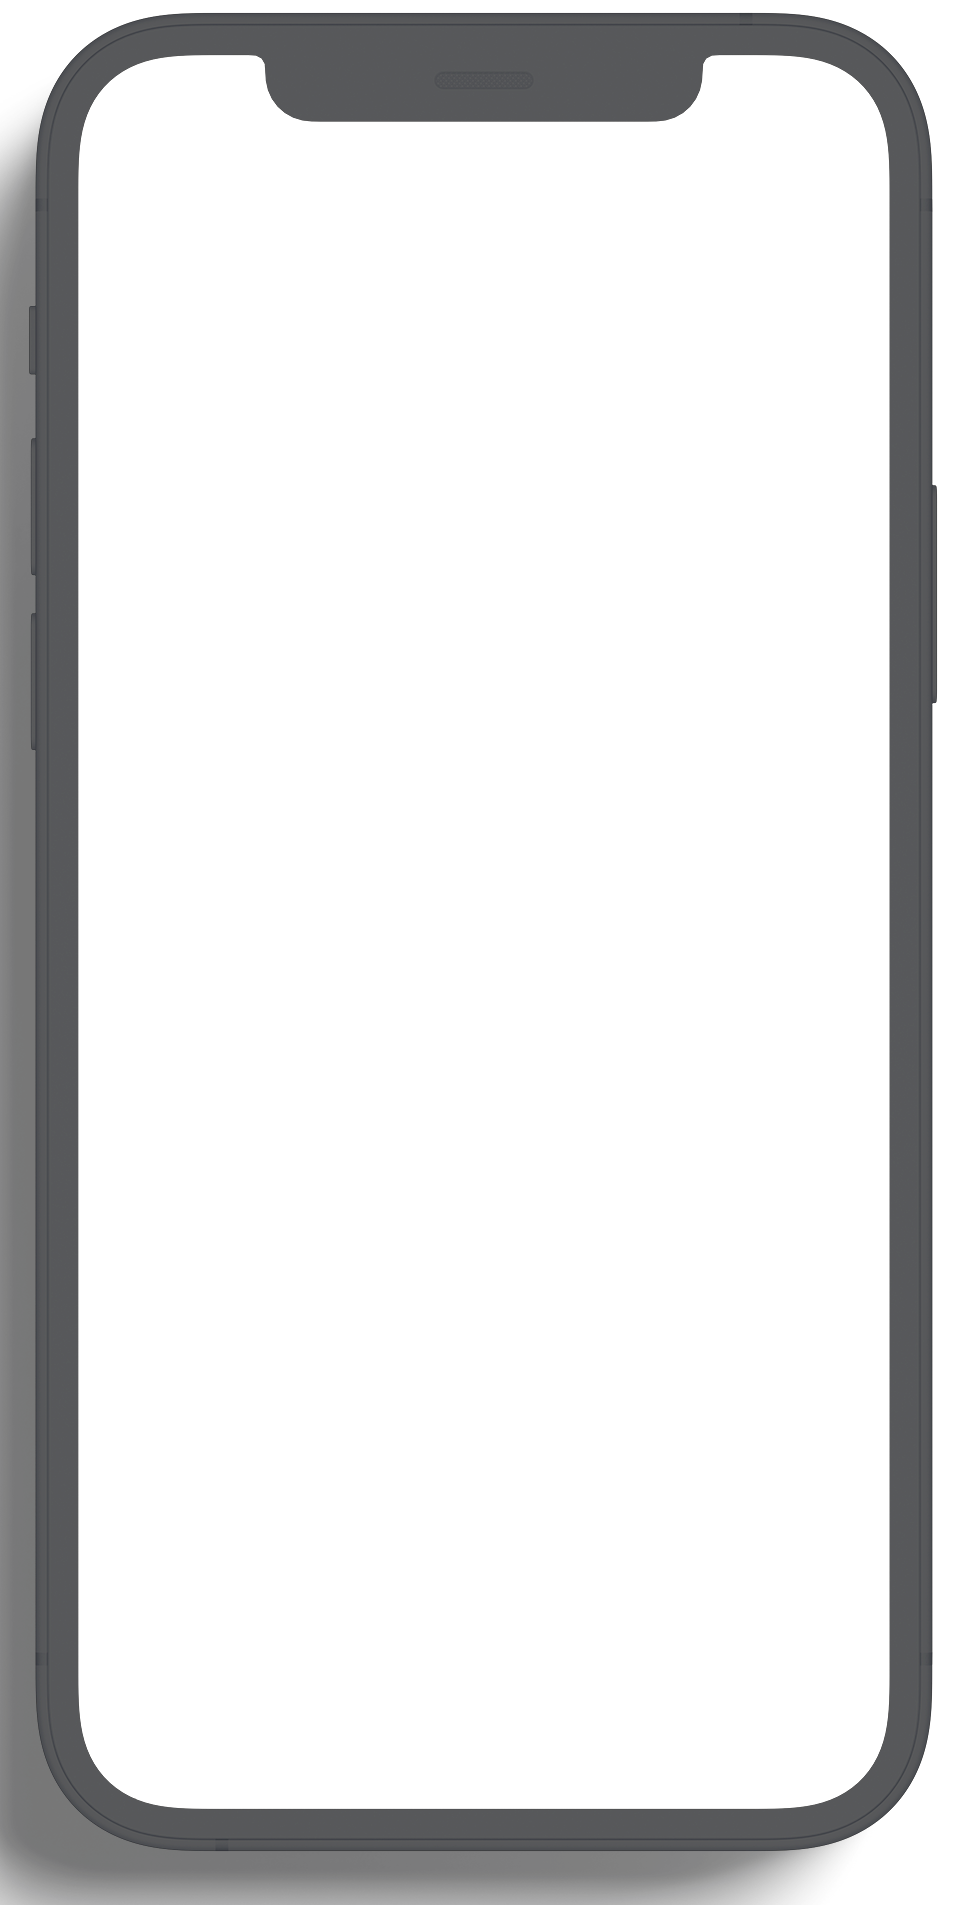
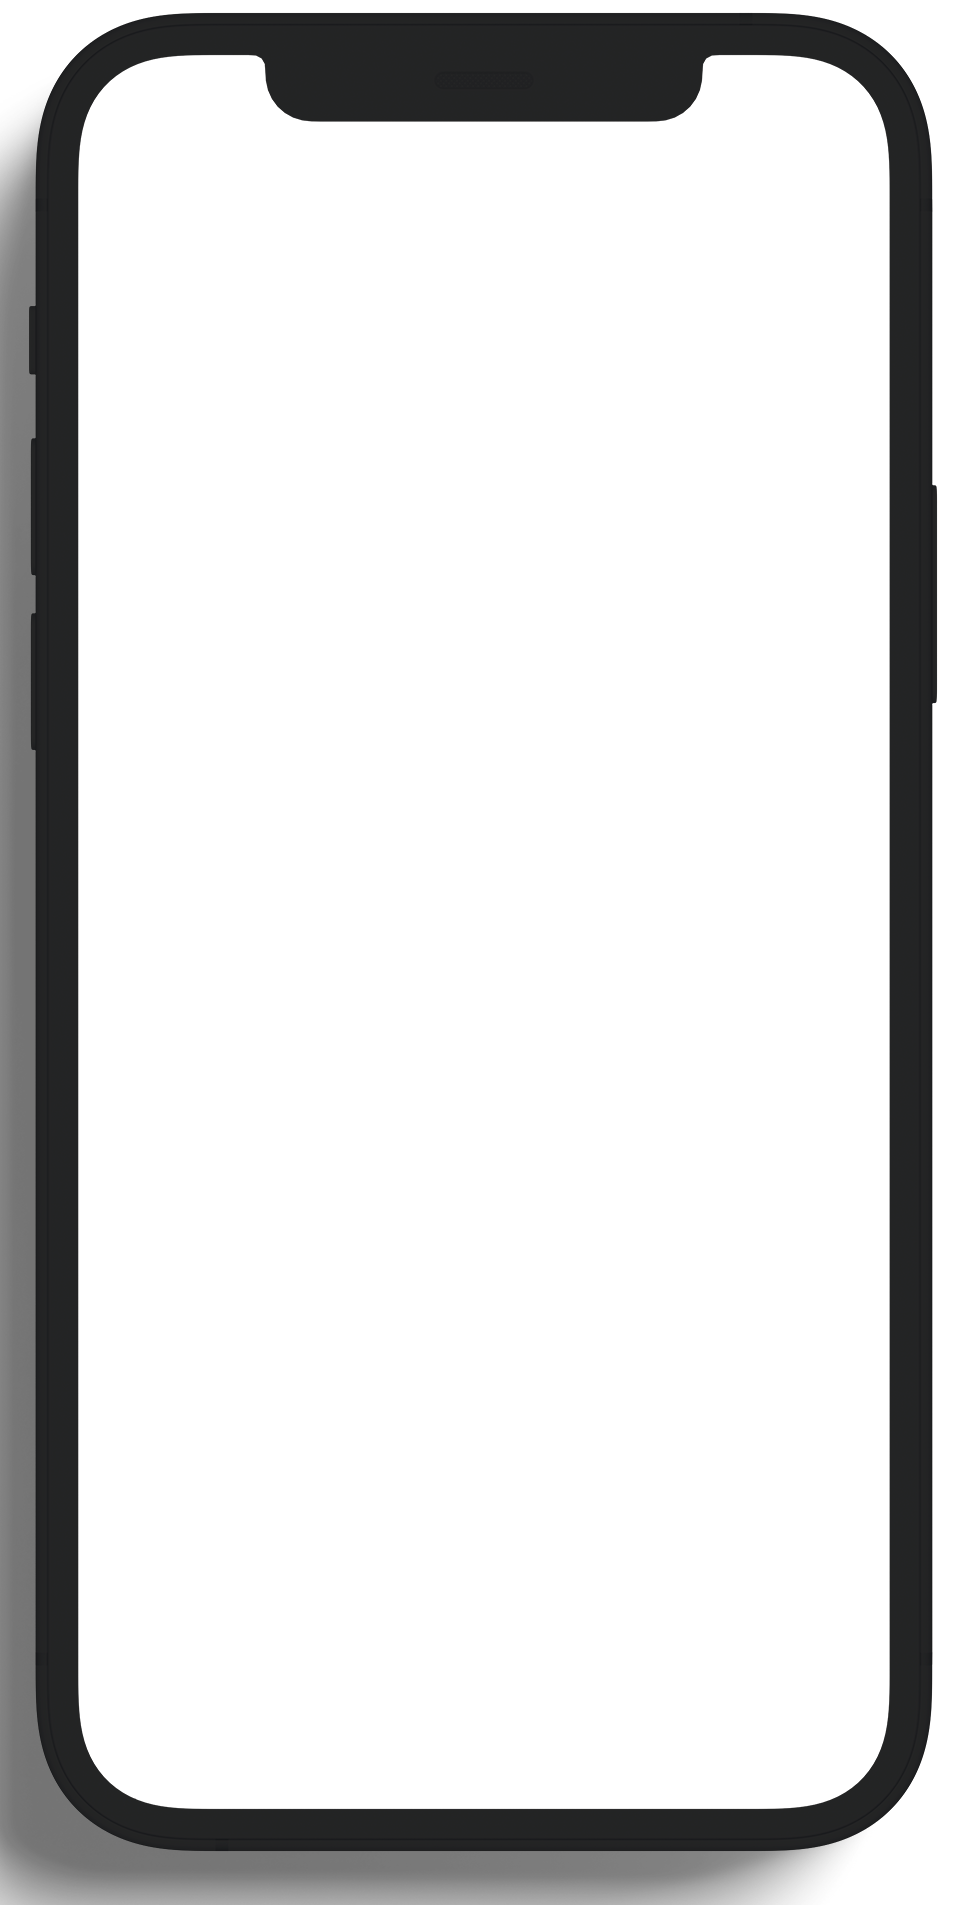
일단 수정

Changed region(s): [[0.0312, 0.0, 0.9979, 0.9911]]

diff --git a/pages/app.html b/pages/app.html
@@ -59,10 +59,10 @@
          <div class="inf2">
             <h2>일정관리에 시간을<br>들이지 마세요.</h2>
             <div class="phone2">
-                <img src="../images/phone_splash.png" width="400" height="750">
+                <img src="../images/phone_1.png" width="400" height="750">
             </div>
             <div class="phone3">
-
+                <img src="../images/android_phone.png" width="411" height="731">
             </div>
             <p>
                 Ai 맞춤 일정,원하는 사람들과의 매칭<br>그리고<br>맞춤동영상까지!
@@ -71,7 +71,7 @@
          <div class="write2">
             <h2>이 앱을 써야할 이유 (장점)</h2>
             <ul class="wrap_boxes1">
-                <li><img src="../images/artificial-intelligence.png" width="100" height="100"><h5>인공지능 기반 플랫폼</h5><p>인공지능이 사용자에 맞는 맞춤학습을 제공합니다.</p></li>
+                <li><img src="../images/plan.png" width="100" height="100"><h5>인공지능 기반 플랫폼</h5><p>인공지능이 사용자에 맞는 맞춤학습을 제공합니다.</p></li>
                 <li><img src="../images/app_shoulder.png" width="100" height="100"><h5>커뮤니티와의 협업</h5><p>커뮤니티와의 협업으로 학습을 더욱 풍부하게 만들어줍니다.</p></li>
                 <li><img src="../images/app_smartphone.png" width="100" height="100"><h5>편리한 모바일 엑세스</h5><p>언제 어디서나 스터디를 계획하고 진행할 수 있습니다</p></li>
         </div>

diff --git a/css/style.css b/css/style.css
@@ -234,7 +234,6 @@ header button:hover {
     width: 400px;
     height: 700px;
     position: absolute;
-    border: 10px solid gray;
     border-radius: 15px;
     right: 0px;
     top: 0px;
@@ -544,7 +543,7 @@ header button:hover {
     border-radius: 10px;
     background-color: white;
     position: relative;
-    font-size: 18px;
+    font-size: 20px;
 }
 .timeline li::before {
     content:""; position: absolute;
@@ -552,6 +551,10 @@ header button:hover {
     width: 20px; height: 20px; border-radius: 100%;
     background:#252525; border: 2px solid #ffffff;
     box-sizing: border-box
+}
+
+.timeline li h3 {
+    margin-bottom: 5px;
 }
 
 .history_about_wrap {
@@ -571,7 +574,7 @@ header button:hover {
 
 .vision {
     width: 100%;
-    height: 600px;
+    height: 800px;
     background-color: black;
     text-align: center;
 }
@@ -582,9 +585,10 @@ header button:hover {
     margin: 0px auto;
 }
 .vision h2 {
+
     color: white;
     font-size: 43px;
-    padding: 30px;
+    padding: 130px 60px 60px 60px;
 }
 
 .vision_box {
@@ -599,6 +603,7 @@ header button:hover {
     width: 350px;
     height: 400px;
     padding: 10px;
+    font-size: 1.3em;
 }
 
 .introduce_team {

diff --git a/pages/request.html b/pages/request.html
@@ -2,10 +2,8 @@
 <html lang="en">
 <head>
   <meta charset="UTF-8">
-  <meta name="viewport" content="width=device-width, initial-scale=1.0">
   <title>문의하기</title>
   <link rel="stylesheet" href="../css/styles_request.css">
-  <link rel="stylesheet" href="../css/style.css">
 </head>
 <body>
   <div class="container">
@@ -14,7 +12,7 @@
         <ul class="nav">
             <li><a href="">앱 소개</a></li>
             <li><a href="help.html">지원</a></li>
-            <li><a href="">About Us</a></li>
+            <li><a href="aboutus.html">About Us</a></li>
             <li><button type="button" onclick="location.href='login.html'">로그인</button></li>
         </ul>
     </header>
@@ -52,7 +50,7 @@
       </tr>
       <tr>
         <th>파일 첨부</th>
-        <td><input type="file" id="attachment" name="attachment"></td>
+        <td><input class="file_upload" type="file" id="attachment" name="attachment"></td>
       </tr>
       <tr>
         <td colspan="2"><button type="submit">제출하기</button></td>

diff --git a/pages/help.html b/pages/help.html
@@ -25,7 +25,7 @@
             </div>
         </div>
         <ul class="helpbox">
-            <a href=""><li><img src="../images/qa.png" width="100" height="100">FAQ</li></a>
-            <a href=""><li><img src="../images/support.png" width="100" height="100">문의하기</li></a>
+            <a href="FAQ.html"><li><img src="../images/qa.png" width="100" height="100">FAQ</li></a>
+            <a href="request.html"><li><img src="../images/support.png" width="100" height="100">문의하기</li></a>
         </ul>
     </div>

diff --git a/pages/app1.html b/pages/app1.html
@@ -12,7 +12,7 @@
             <ul class="nav">
                 <li><a href="">앱 소개</a></li>
                 <li><a href="help.html">지원</a></li>
-                <li><a href="">About Us</a></li>
+                <li><a href="aboutus.html">About Us</a></li>
                 <li><button type="button" onclick="location.href='login.html'">로그인</button></li>
             </ul>
         </header>

diff --git a/pages/signup.html b/pages/signup.html
@@ -9,7 +9,6 @@
 <body>
     <div class="signup-container">
         <div class="signup-form">
-            <img src="compass_logo.png" alt="Compass Logo">
             <h1>Compass 계정 만들기</h1>
             <form id="signupForm">
                 <input type="text" id="fullName" name="fullName" placeholder="성명" required>

diff --git a/css/login.css b/css/login.css
@@ -26,7 +26,7 @@ body {
     border-radius: 5px;
     overflow: hidden;
     width: 400px;
-    height: 600px;
+    height: 540px;
     animation: fadein 1s;
 }
 
